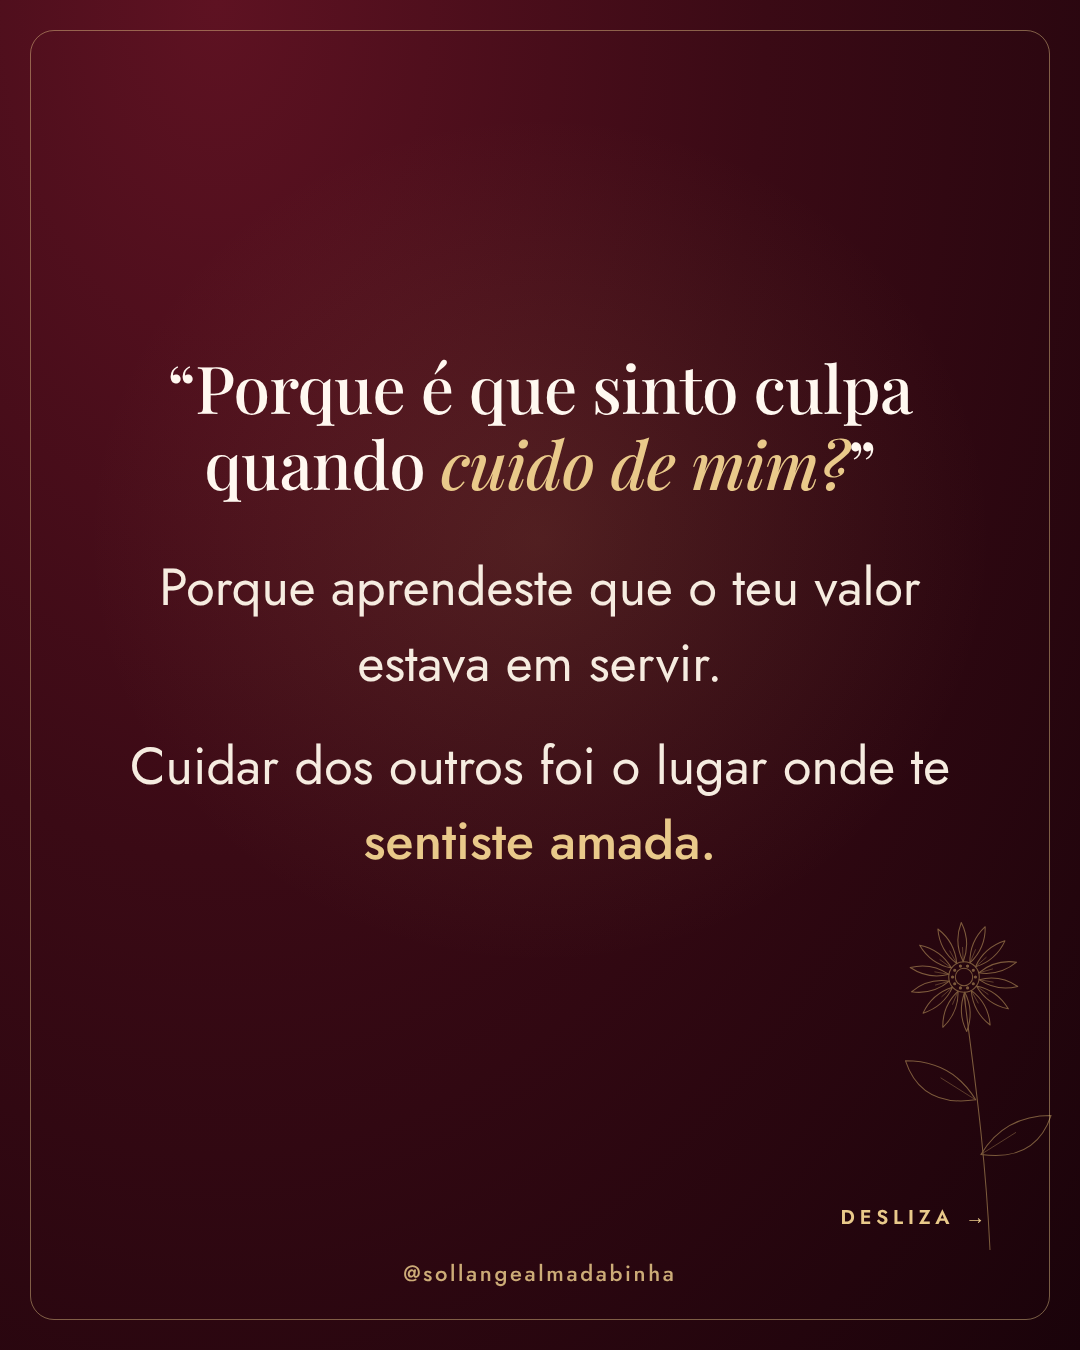
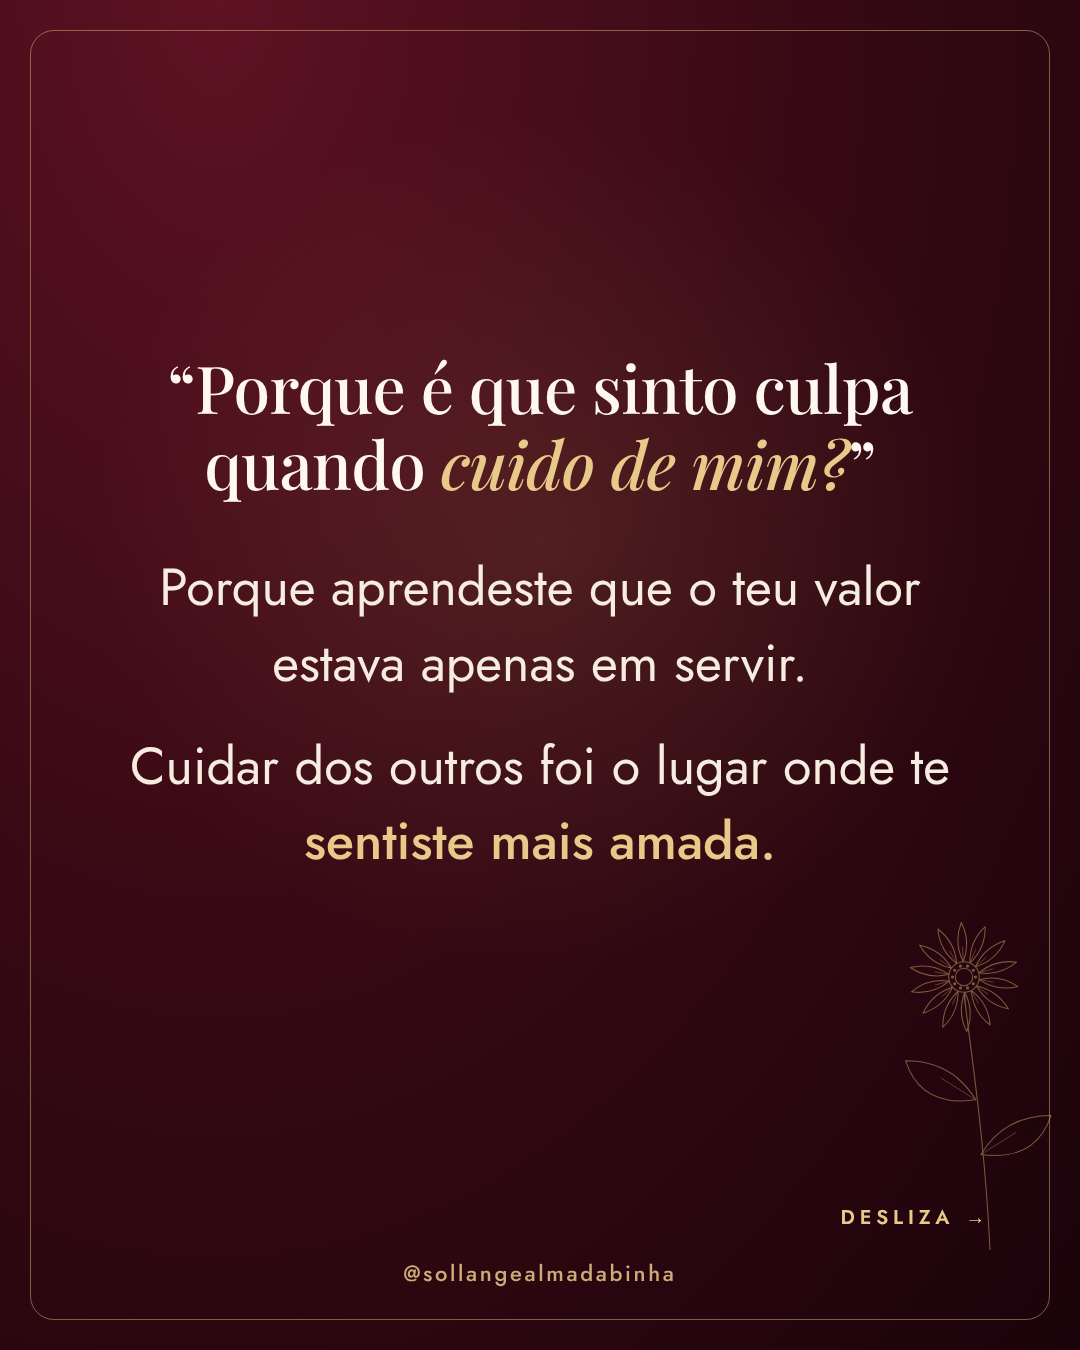
Egoismo carousel: client text changes on slide 2
Claude-Session: https://claude.ai/code/session_01LHQJ2mQGDsvNSWxv53LoAn

Changed region(s): [[0.2444, 0.4667, 0.7333, 0.5289], [0.275, 0.5911, 0.7028, 0.6533]]

diff --git a/carrossel/carrossel-egoismo-vinho.html b/carrossel/carrossel-egoismo-vinho.html
@@ -32,8 +32,8 @@ h1 em,h2 em{font-style:italic;color:#E9C98A}
 <svg class="flor" style="right:-40px;bottom:100px;width:260px;height:390px" viewBox="0 0 400 600" fill="none" stroke="#D4AF6A" stroke-width="1.6" stroke-linejoin="round"><path d="M200 600 C192.0 432.0 172.0 306.0 160 205.2"/><path d="M186 453 Q270 465 294 393 Q222 393 186 453Z"/><path d="M186 453 L240 419" stroke-width="1"/><path d="M178 369 Q94 381 70 309 Q142 309 178 369Z"/><path d="M178 369 L124 335" stroke-width="1"/><path d="M183.2 184.1 Q210.6 202.6 242.7 194.6 Q215.3 176.1 183.2 184.1Z"/><path d="M183.2 184.1 L205.5 188.0" stroke-width="1"/><path d="M179.1 193.7 Q195.8 222.3 228.2 229.0 Q211.5 200.5 179.1 193.7Z"/><path d="M179.1 193.7 L197.5 207.0" stroke-width="1"/><path d="M171.2 200.7 Q173.9 233.6 200.2 253.8 Q197.5 220.8 171.2 200.7Z"/><path d="M171.2 200.7 L182.1 220.6" stroke-width="1"/><path d="M161.2 203.5 Q149.3 234.4 164.2 263.9 Q176.1 233.0 161.2 203.5Z"/><path d="M161.2 203.5 L162.3 226.1" stroke-width="1"/><path d="M150.9 201.7 Q126.7 224.3 127.4 257.4 Q151.5 234.8 150.9 201.7Z"/><path d="M150.9 201.7 L142.1 222.6" stroke-width="1"/><path d="M142.4 195.6 Q110.8 205.5 97.0 235.6 Q128.6 225.6 142.4 195.6Z"/><path d="M142.4 195.6 L125.4 210.6" stroke-width="1"/><path d="M137.4 186.4 Q104.6 181.6 79.1 202.8 Q111.9 207.5 137.4 186.4Z"/><path d="M137.4 186.4 L115.5 192.5" stroke-width="1"/><path d="M136.8 175.9 Q109.4 157.4 77.3 165.4 Q104.7 183.9 136.8 175.9Z"/><path d="M136.8 175.9 L114.5 172.0" stroke-width="1"/><path d="M140.9 166.3 Q124.2 137.7 91.8 131.0 Q108.5 159.5 140.9 166.3Z"/><path d="M140.9 166.3 L122.5 153.0" stroke-width="1"/><path d="M148.8 159.3 Q146.1 126.4 119.8 106.2 Q122.5 139.2 148.8 159.3Z"/><path d="M148.8 159.3 L137.9 139.4" stroke-width="1"/><path d="M158.8 156.5 Q170.7 125.6 155.8 96.1 Q143.9 127.0 158.8 156.5Z"/><path d="M158.8 156.5 L157.7 133.9" stroke-width="1"/><path d="M169.1 158.3 Q193.3 135.7 192.6 102.6 Q168.5 125.2 169.1 158.3Z"/><path d="M169.1 158.3 L177.9 137.4" stroke-width="1"/><path d="M177.6 164.4 Q209.2 154.5 223.0 124.4 Q191.4 134.4 177.6 164.4Z"/><path d="M177.6 164.4 L194.6 149.4" stroke-width="1"/><path d="M182.6 173.6 Q215.4 178.4 240.9 157.2 Q208.1 152.5 182.6 173.6Z"/><path d="M182.6 173.6 L204.5 167.5" stroke-width="1"/><circle cx="160" cy="180" r="23.5"/><circle cx="160" cy="180" r="13.4"/><circle cx="177.6" cy="180.0" r="1.6" fill="#D4AF6A"/><circle cx="174.3" cy="190.4" r="1.6" fill="#D4AF6A"/><circle cx="165.5" cy="196.8" r="1.6" fill="#D4AF6A"/><circle cx="154.5" cy="196.8" r="1.6" fill="#D4AF6A"/><circle cx="145.7" cy="190.4" r="1.6" fill="#D4AF6A"/><circle cx="142.4" cy="180.0" r="1.6" fill="#D4AF6A"/><circle cx="145.7" cy="169.6" r="1.6" fill="#D4AF6A"/><circle cx="154.5" cy="163.2" r="1.6" fill="#D4AF6A"/><circle cx="165.5" cy="163.2" r="1.6" fill="#D4AF6A"/><circle cx="174.3" cy="169.6" r="1.6" fill="#D4AF6A"/></svg>
 <div class="z" style="position:absolute;left:110px;right:110px;top:0;bottom:120px;display:flex;flex-direction:column;justify-content:center;text-align:center">
 <p class="q">“Porque é que sinto culpa quando <em style="color:#E9C98A">cuido de mim?</em>”</p>
-<p class="r" style="margin-top:48px">Porque aprendeste que o teu valor estava em servir.</p>
-<p class="r" style="margin-top:28px">Cuidar dos outros foi o lugar onde te <b>sentiste amada.</b></p>
+<p class="r" style="margin-top:48px">Porque aprendeste que o teu valor estava apenas em servir.</p>
+<p class="r" style="margin-top:28px">Cuidar dos outros foi o lugar onde te <b>sentiste mais amada.</b></p>
 </div>
 <p class="seta">Desliza →</p><div class="rod"><span>@sollangealmadabinha</span></div></section><section class="s" id="p3">
 <img class="bg" src="egoismo/inteira-manta.jpg" style="object-position:55% 50%">
